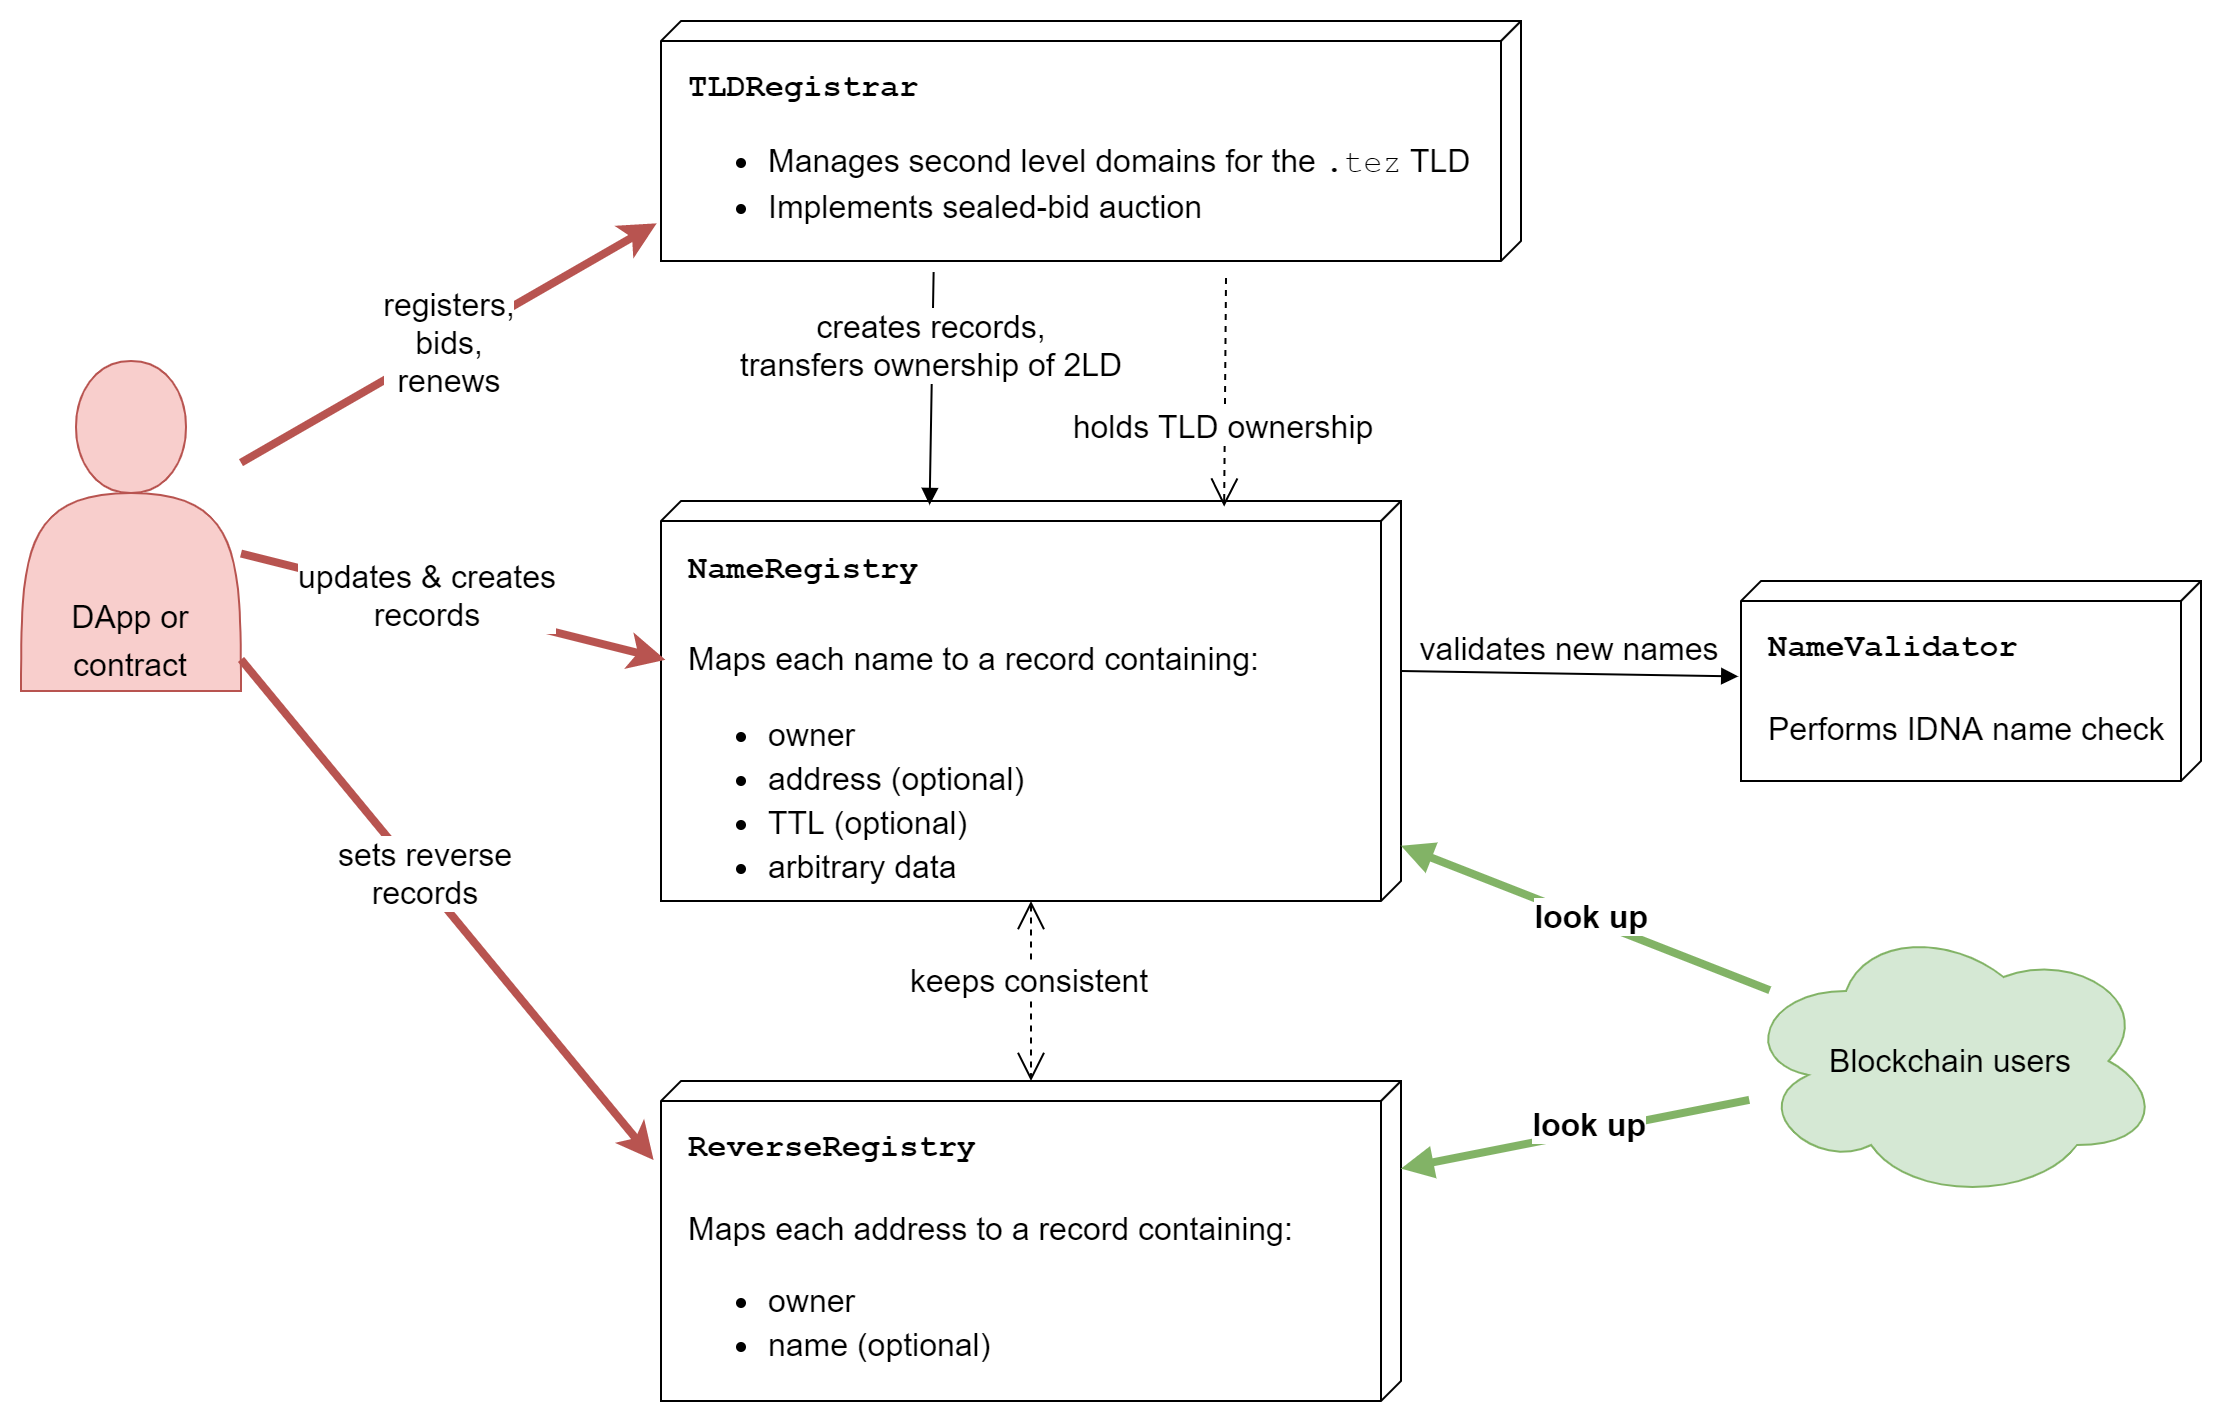
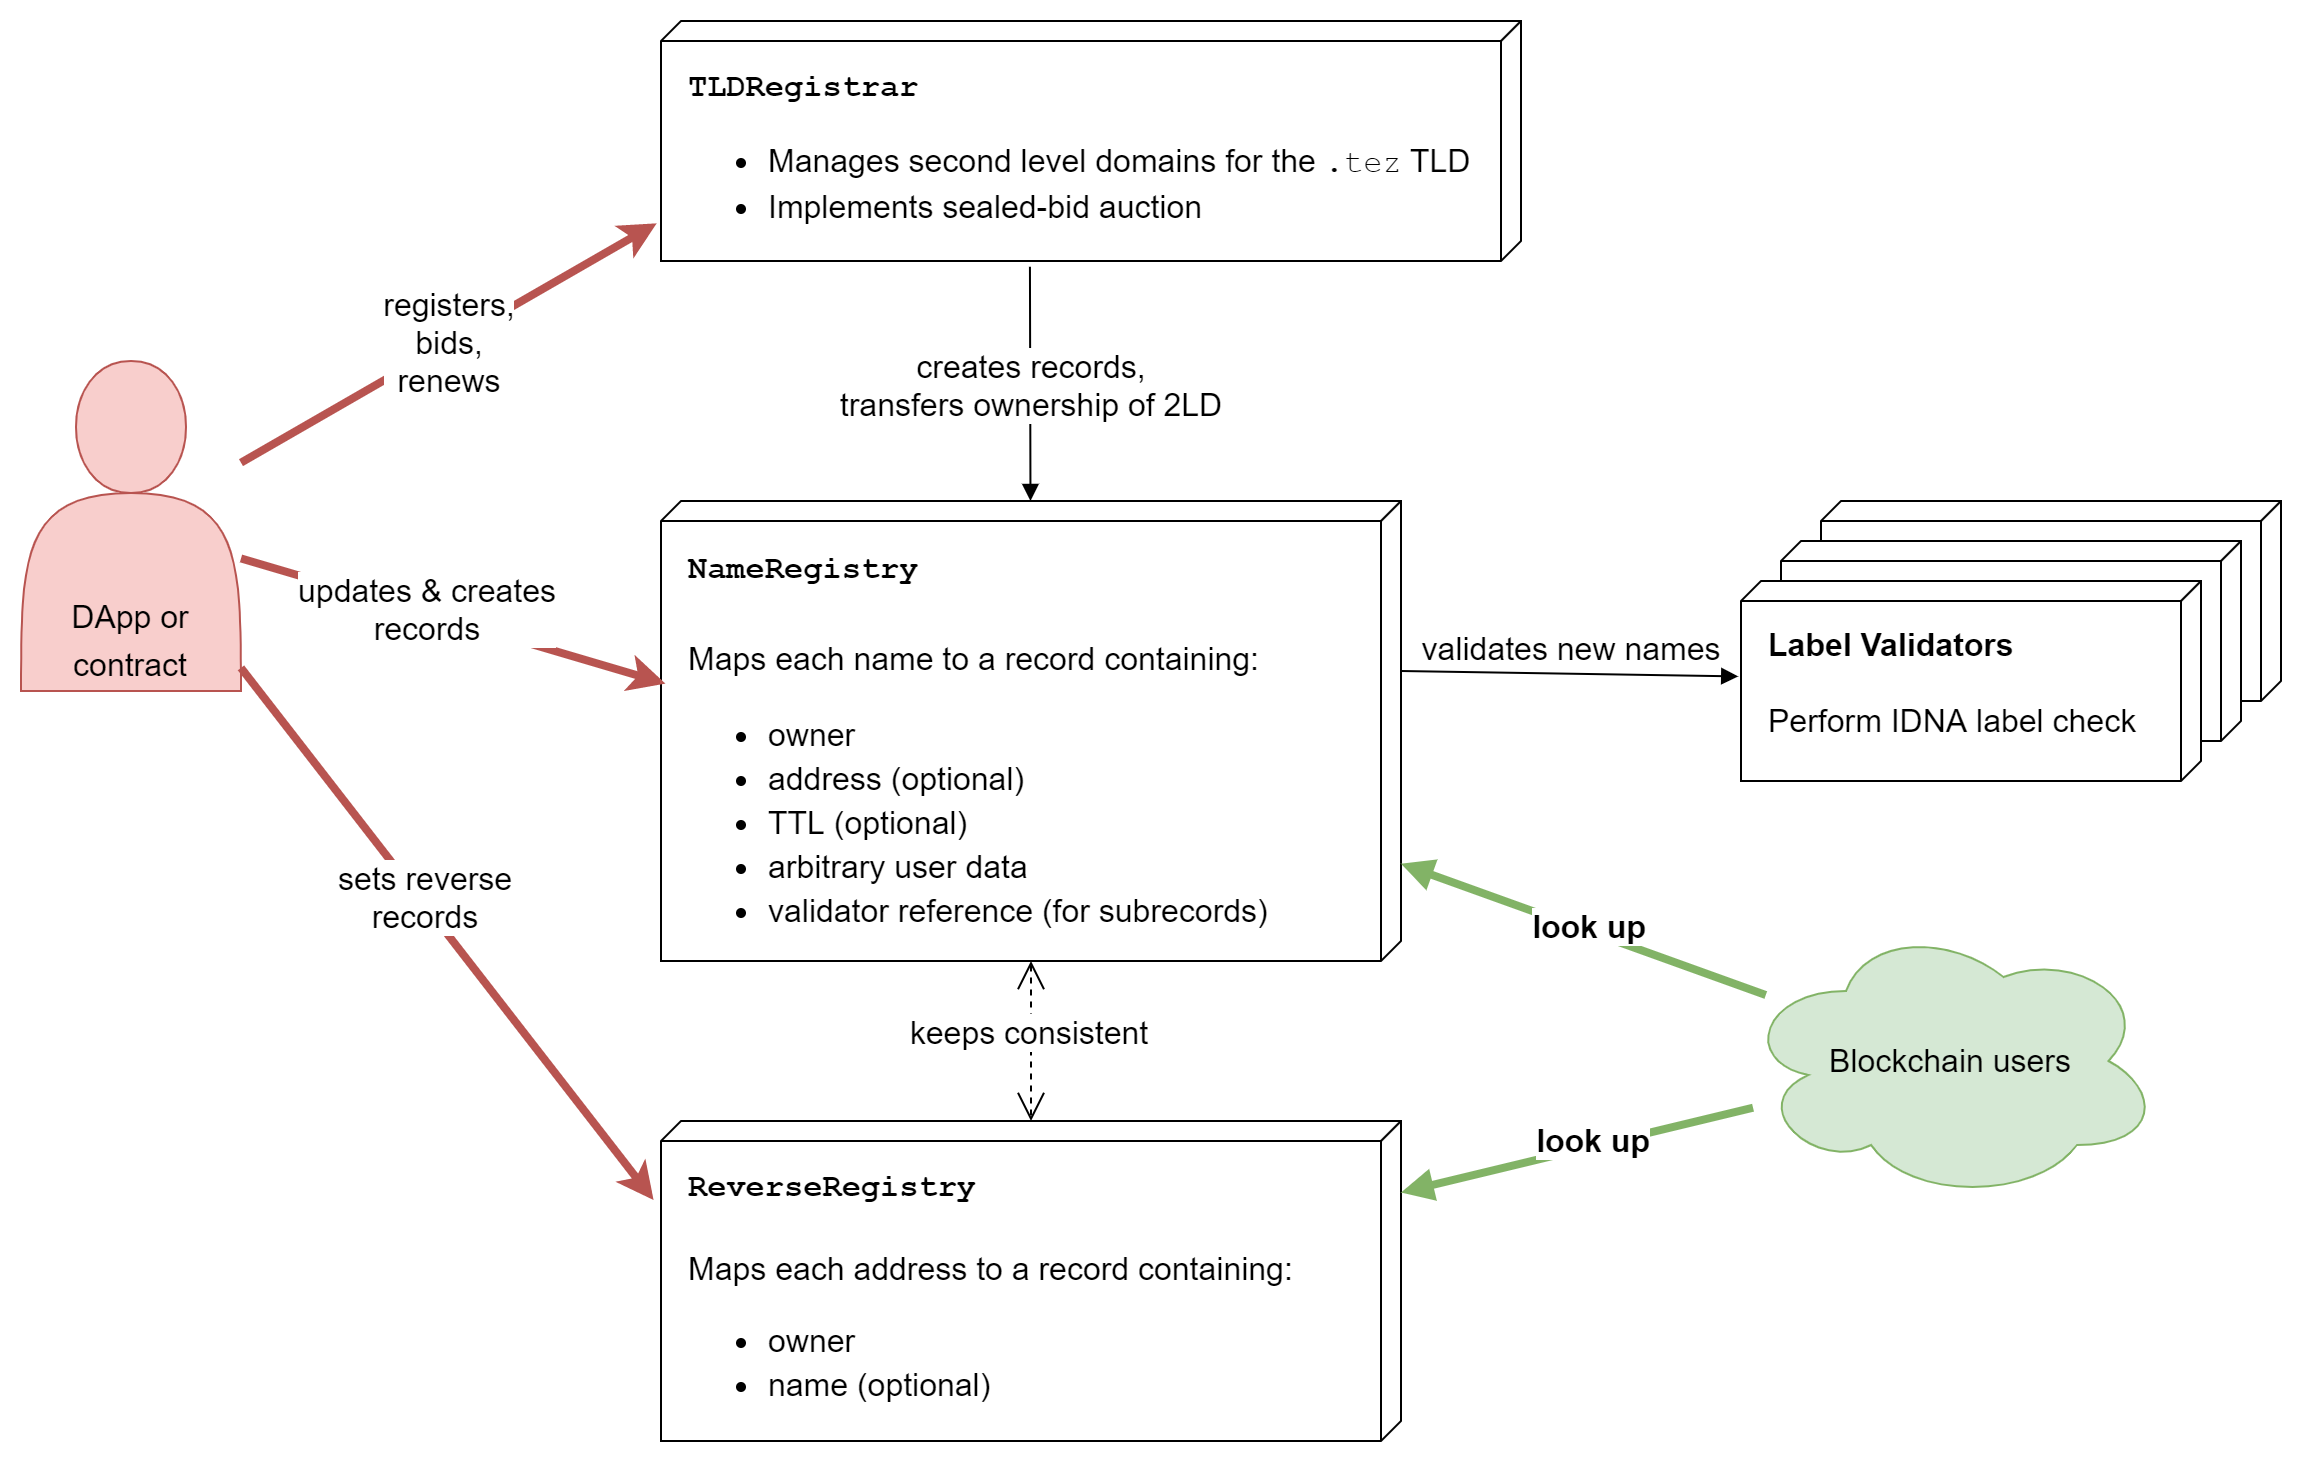
ownership explained, multiple TLDs

diff --git a/design-document/interoperability.md b/design-document/interoperability.md
@@ -179,8 +179,7 @@ _Note: Clients **must not** rely on the ordering of the top-level nested pairs. 
 The resolution algorithm is as follows:
 
 1. Look up the address in the `records` bigmap. If the bigmap contains no such key, the given address is not resolvable.
-2. Extract the optional `name` value. If the optional value is `None`, the given address is not resolvable.
-3. Use the decode algorithm explained in [Name Validation and Normalization](interoperability.md).
+2. Extract the optional `name` value. If the optional value is `None`, the given address is not resolvable. Otherwise, use the `name` value.
 
 ### Instructions for Contracts
 
@@ -214,12 +213,6 @@ This algorithm is used both for registration and lookup purposes when communicat
    * **UseSTD3ASCIIRules** = true
    * **Transitional\_Processing** = false
 2. The name or label is encoded using UTF-8 into `bytes`.
-
-### Name Display \(Decode\) Algorithm
-
-1. The name is decoded from UTF-8 `bytes`.
-2. Using the `ToUnicode` algorithm, check that the normalized variant of the name is equal to the name itself. Any name retrieved from any TNS contract **must** be checked using this step. The contracts do not guarantee complete on-chain validation according to UTS 46 and can potentially store invalid names.
-3. If the original and normalized variants of the name are not equal or the name fails validation, it **must not** be displayed to the user. The exact UI behavior is up to the implementor to decide. Implementations can replace the invalid name with a short warning or omit the item completely \(acting as if it didn't exist\).
 
 ### Libraries
 

diff --git a/design-document/smart-contract-overview.md b/design-document/smart-contract-overview.md
@@ -20,16 +20,17 @@ The name registry keeps track of all domains in the system, indexed by their nam
 * **TTL** \(optional `nat`\) is the time-to-live of the record in caches and other secondary storage mechanisms.
 * **Resolution address**, the optional `address` the name resolves to.
 * **Additional data**, a map with any additional data clients wish to store with the domain.
+* **Validator contract reference** used for validating names of new subrecords.
 
 The registry supports:
 
 * resolving a name and returning the resolved address via callback,
-* managing records and creating new sub-records,
-* removing records.
+* managing records,
+* creating new sub-records.
 
-## LabelValidator
+## Label Validators
 
-This smart contract validates labels according to the [IDNA](https://en.wikipedia.org/wiki/Internationalized_domain_name) rules. It provides a `validate` entry-point accepting a label. The entry-point fails the transaction if the label is not valid or if the `bytes` contain an invalid UTF-8 string. See the [Interoperability](interoperability.md) chapter for more information about normalization and validation.
+These smart contracts validate labels according to the [IDNA](https://en.wikipedia.org/wiki/Internationalized_domain_name) rules and the specific rules for the given top-level domain. They provides a `validate` entry-point accepting a label. The entry-point fails the transaction if the label is not valid or if the `bytes` contain an invalid UTF-8 string. See the [Interoperability](interoperability.md) chapter for more information about normalization and validation.
 
 ## ReverseRegistry
 

diff --git a/design-document/top-level-domain-registrar.md b/design-document/top-level-domain-registrar.md
@@ -1,6 +1,6 @@
 # Top-Level Domain Registrar
 
-The registrar smart contract is responsible for managing the `.tez` top-level domain. It sells domains to buyers and allows renewals of domains and transfers of ownership. It is also an implementor of the [FA2 - Multi-Asset Interface](https://gitlab.com/tzip/tzip/-/blob/master/proposals/tzip-12/tzip-12.md) \(TZIP-12\) to allow domains to be traded on secondary markets.
+The registrar smart contract is responsible for managing the top-level domains. It sells second-level domains to buyers and allows renewals and transfers of ownership. It is also an implementor of the [FA2 - Multi-Asset Interface](https://gitlab.com/tzip/tzip/-/blob/master/proposals/tzip-12/tzip-12.md) \(TZIP-12\) to allow domains to be traded on secondary markets.
 
 ## Open Auction
 
@@ -29,6 +29,18 @@ Owners of domains can renew their domains at any time up until the domain expire
 ```text
 price_of_renewal = chosen_renewal_period * initial_price / initial_registration_period
 ```
+
+## Top-level Domain List
+The susceptibility to spoofing attacks using look-alike characters is reduced by limiting TLDs to predefined character scripts. Neither same-script and mixed-script confusable names can be created in the same TLD.
+
+The top-level domains available are:
+
+|Name    | Description
+|--------|----------------------------------------------|
+|`.tez`  | The standard TLD for names in Latin          |
+|`.тез`  | TLD for names in languages based on Cyrillic |
+
+TLDs for more scripts will be likely made available in the future.
 
 ## Configuration
 

diff --git a/design-document/ownership-overview.md b/design-document/ownership-overview.md
@@ -1,4 +1,16 @@
-# Ownership Overview
+# Ownership Scheme
 
-![Ownership Overview](../.gitbook/assets/ownership.png)
+![Ownership Scheme](../.gitbook/assets/ownership.png)
 
+The ownership scheme in the name registry is as follows (from top to bottom):
+1. The **root** of all domains is owned by the administrative multisig.
+2. **Top-level domains** are created by the administrative multisig and then transferred to the TLD registrar contract.
+3. **Second-level domains** are in turn created by the TLD registrar on behalf of buying users and transferred to them upon creation. The users are then responsible for their management.
+4. **Third-and-higher-level domain** creation and management is completely in the hands of the users.
+
+
+## Administrative Multisig
+This is a formally verified multisig contract with keys held by well known community members. It's needed for administrative actions like:
+* creating new top-level domains,
+* updating the [TLD configuration](top-level-domain-registrar#configuration),
+* deploying new versions of contracts if a critical vulnerability is found.
